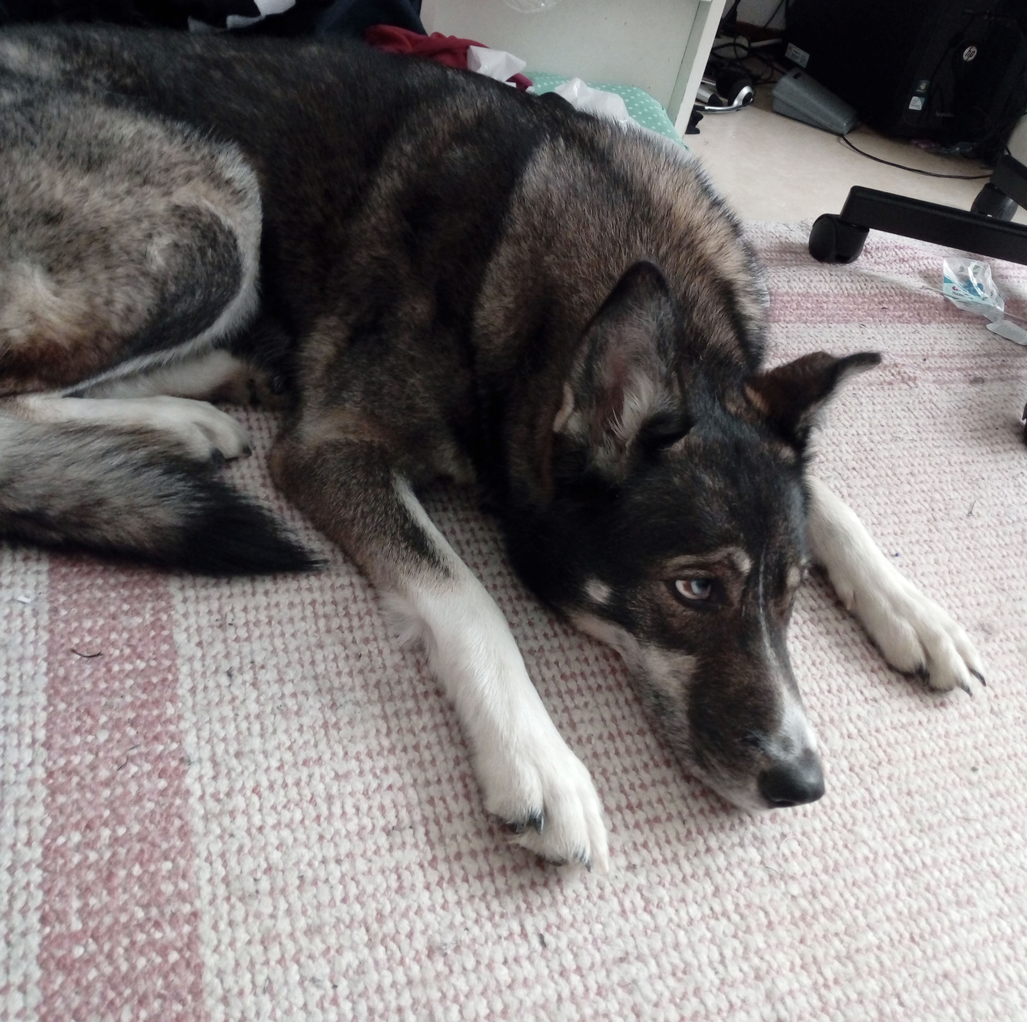
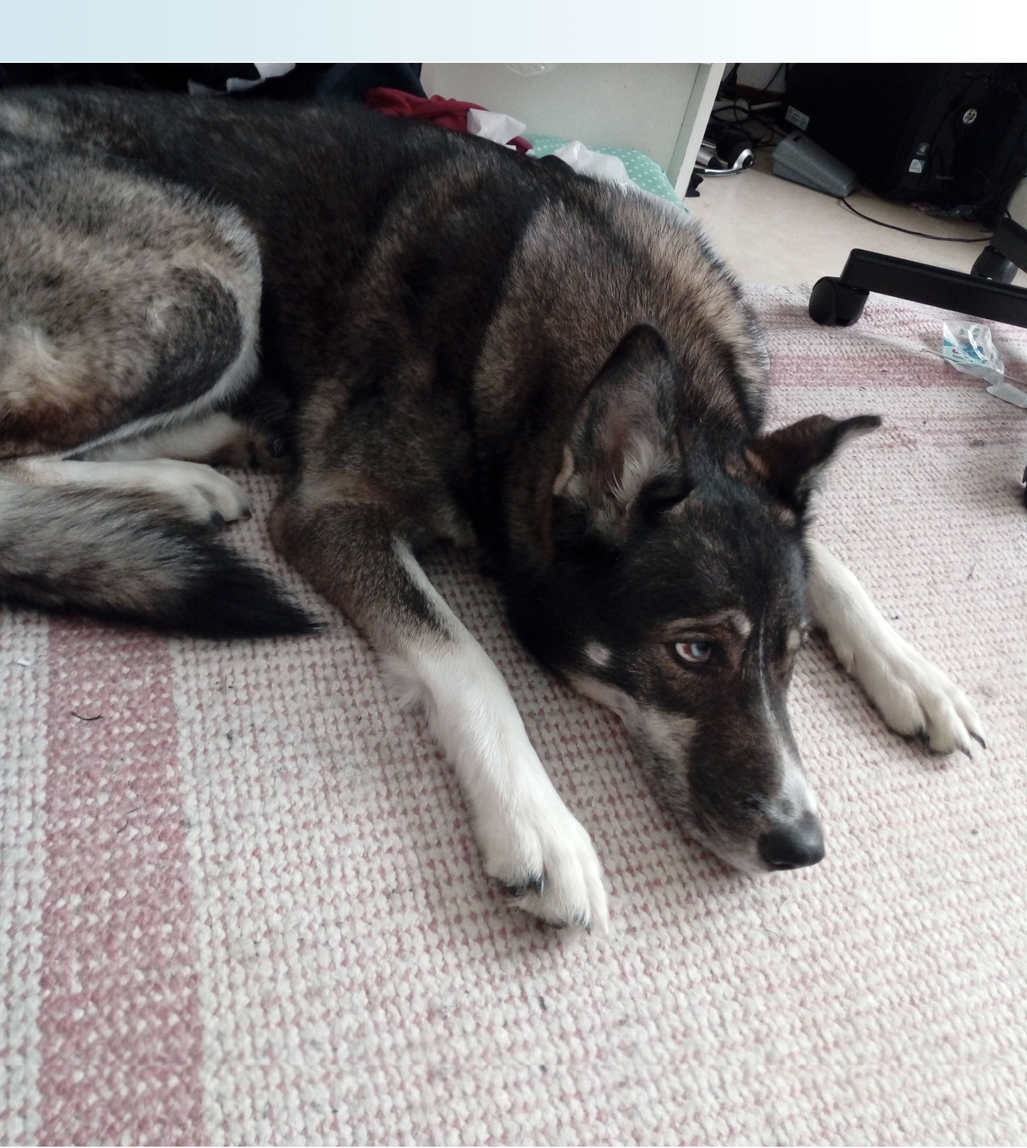
cssmuokkaus

diff --git a/index.html b/index.html
@@ -33,6 +33,7 @@
           </div>
         </div>
       </div>
+    </div>
     <div class="row">
         <div class="col-sm-3">
     <div class="card" style="width: 18rem;">
@@ -97,26 +98,26 @@
                   </ol>
                   <div class="carousel-inner">
                     <div class="carousel-item active">
-                      <img src="kuvat/Arya.jpg" class="d-block w-100" alt="Koira">
+                      <img src="kuvat/Arya.jpg"class="d-md-block w-100" alt="Koira">
                       <div class="carousel-caption d-none d-md-block">
                         <h5>Our friends dog, Arya</h5>
                       </div>
                     </div>
                     <div class="carousel-item">
-                      <img src="kuvat/Arya2.jpg" class="d-block w-100" alt="...">
+                      <img src="kuvat/Arya2.jpg"class="d-md-block w-100"alt="...">
                       <div class="carousel-caption d-none d-md-block">
                         <h5>Arya again</h5>
                       </div>
                     </div>
                     <div class="carousel-item">
-                      <img src="kuvat/koti.jpg" class="d-block w-100" alt="...">
+                      <img src="kuvat/koti.jpg" class="d-md-block w-100"alt="...">
                       <div class="carousel-caption d-none d-md-block">
                         <h5>Home</h5>
                         <p>Here is a picture taken from our balcony</p>
                       </div>
                       </div>
                         <div class="carousel-item">
-                          <img src="kuvat/Työasema.jpg" class="d-block w-100" alt="...">
+                          <img src="kuvat/Työasema.jpg"class="d-md-block w-100" alt="...">
                           <div class="carousel-caption d-none d-md-block">
                             <h5>My desk</h5>
                             <p>Here is my desk where I do most of the work</p>

diff --git a/prt.css b/prt.css
@@ -1,10 +1,9 @@
 .carousel-item{
-    height: 500px;
     background-color: aliceblue;
 }
 
 body{
-    margin: 50px;
+    margin: 4%;
     background-image:linear-gradient(white,LightCyan,PaleTurquoise);
 }
 
@@ -16,3 +15,4 @@ body{
   .card{
       margin:5%;
   }
+  
